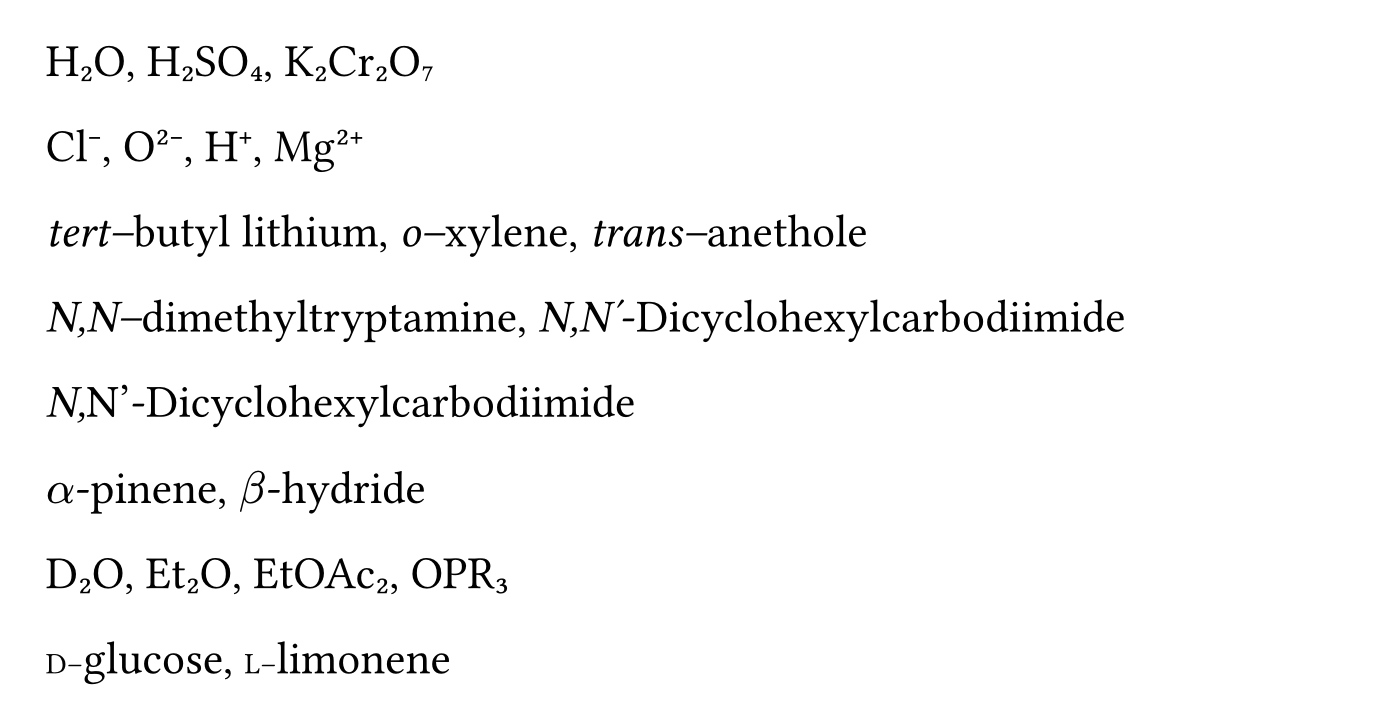
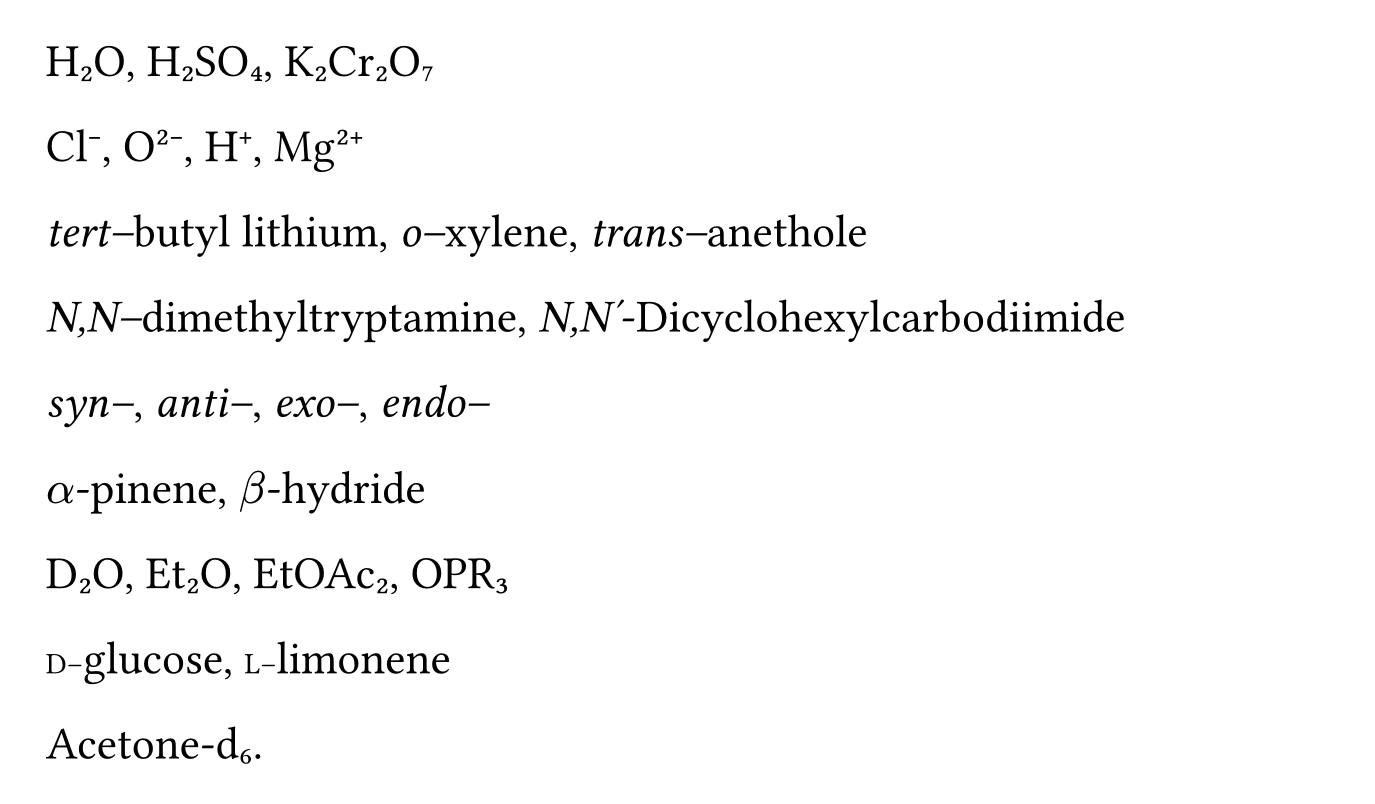
docs(version): increment

diff --git a/README.md b/README.md
@@ -4,7 +4,7 @@ A utility package for displaying IUPAC nomenclature and chemical formulae withou
 ## Example Usage
 
 ```typ
-#import "@preview/chem-par@0.1.0": *
+#import "@preview/chem-par:0.0.1": *
 
 #set page(width: 30em, height: auto, margin: 1em)
 #show: chem-style
@@ -13,3 +13,7 @@ The oxidation of n-butanol with K2Cr2O7 requires acidification with H2SO4 to yie
 ```
 
 ![Example output](gallery/example.typ.png "Example Output")
+
+Works on most of the common things a chemist would type
+
+![Example output](gallery/test.typ.png "Example Output")
